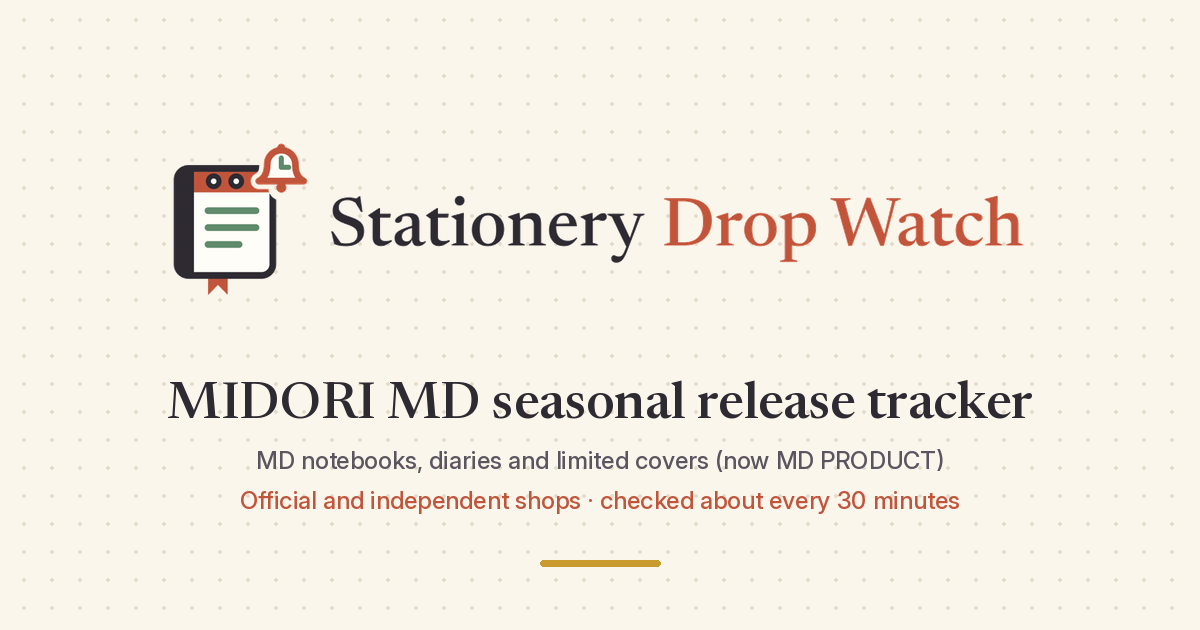
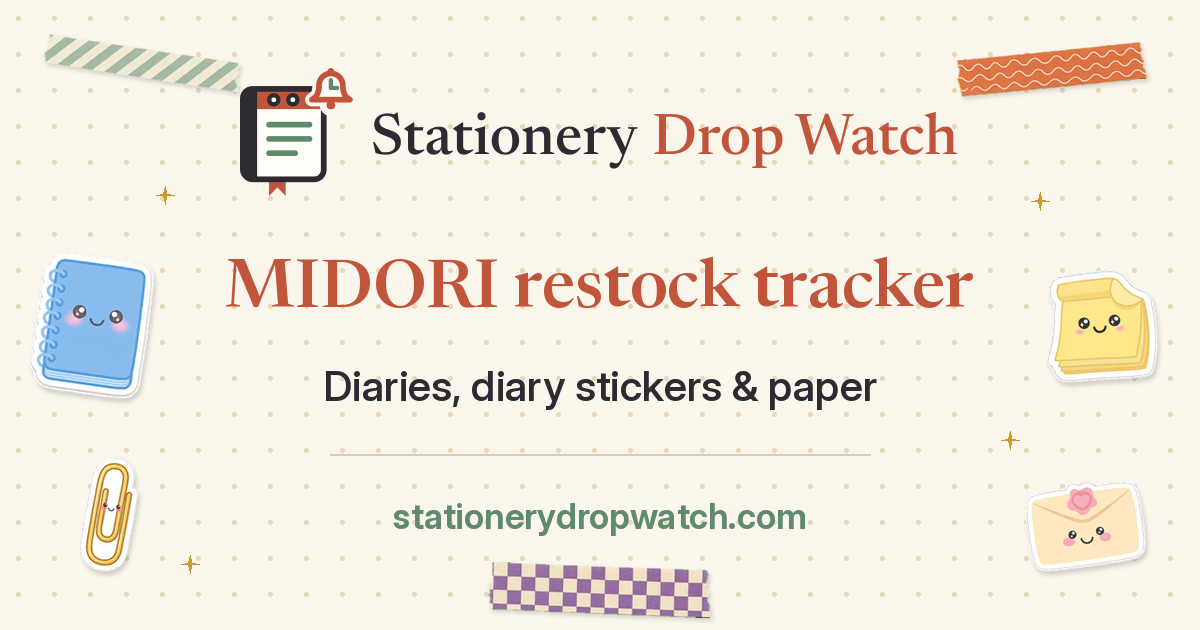
Use the approved MIDORI card and keep time-zone labels accurate
The share image is the exact approved file, and the old card generator no longer redraws it. The restock note stays Eastern Time until every instant on the page is rewritten, and a timestamp with no zone is left unchanged.

diff --git a/site/assets/local-time.js b/site/assets/local-time.js
@@ -2,8 +2,14 @@
    time.time-instant elements into the visitor's zone. Editorial dates are not marked and stay put.
    A missing zone, a bad timestamp, or any thrown error leaves the Eastern Time text. */
 (function (root) {
+  // A timestamp with no Z or numeric offset is not a known instant. Date() would
+  // read it as the visitor's zone and silently move it. Leave the Eastern Time text.
+  function hasExplicitZone(iso) {
+    return /(?:Z|[+-]\d{2}:\d{2})$/i.test(iso);
+  }
+
   function formatInstant(iso, timeZone, locale, now) {
-    if (typeof iso !== "string" || iso.indexOf("T") < 0) return null;
+    if (typeof iso !== "string" || iso.indexOf("T") < 0 || !hasExplicitZone(iso)) return null;
     var date = new Date(iso);
     if (isNaN(date.getTime())) return null;
     if (!timeZone) return null;
@@ -49,15 +55,27 @@
     return n;
   }
 
+  function zoneNote(converted, total) {
+    if (!total || !converted) return null;
+    if (converted === total) return "Times are labeled in your time zone.";
+    return "Each time names its zone. Eastern Time was not switched.";
+  }
+
   function showLocalTimes(doc) {
     try {
+      var page = doc || root.document;
       var zone = Intl.DateTimeFormat().resolvedOptions().timeZone;
-      if (!zone) return;
-      applyLocalTimes(doc || root.document, zone, (root.navigator && root.navigator.language) || "en-US");
+      if (!zone || !page || !page.querySelectorAll) return;
+      var nodes = page.querySelectorAll("time.time-instant[datetime]");
+      var converted = applyLocalTimes(page, zone, (root.navigator && root.navigator.language) || "en-US");
+      var note = zoneNote(converted, nodes.length);
+      if (!note) return;
+      var labels = page.querySelectorAll(".time-zone-note");
+      for (var i = 0; i < labels.length; i++) labels[i].textContent = note;
     } catch (e) {}
   }
 
-  var api = { formatInstant: formatInstant, applyLocalTimes: applyLocalTimes, showLocalTimes: showLocalTimes };
+  var api = { formatInstant: formatInstant, applyLocalTimes: applyLocalTimes, showLocalTimes: showLocalTimes, zoneNote: zoneNote, hasExplicitZone: hasExplicitZone };
   if (typeof module !== "undefined" && module.exports) module.exports = api;
   root.DropWatchTime = api;
 })(typeof globalThis !== "undefined" ? globalThis : this);

diff --git a/tests/local-time.test.js b/tests/local-time.test.js
@@ -28,9 +28,15 @@ assert.equal(at("2026-11-08T04:30:00Z", "Asia/Tokyo"), "Nov 8, 1:30 PM GMT+9");
 assert.equal(at("2026-01-01T04:30:00Z", "America/New_York"), "Dec 31, 2025, 11:30 PM EST");
 assert.equal(at("2026-01-01T04:30:00Z", "Asia/Tokyo"), "Jan 1, 1:30 PM GMT+9");
 
-for (const bad of ["", "2026-11-08", "not-a-time", "2026-13-40T00:00:00Z", null, undefined]) {
+for (const bad of ["", "2026-11-08", "not-a-time", "2026-13-40T00:00:00Z", null, undefined,
+                   "2026-11-08T08:14:52", "2026-11-08T08:14:52.5", "2026-11-08T08:14:52+0000"]) {
   assert.equal(formatInstant(bad, "America/New_York", "en-US", NOW), null);
 }
+assert.equal(at("2026-11-08T08:14:52+00:00", "America/New_York"), "Nov 8, 3:14 AM EST");
+const { zoneNote } = require("../site/assets/local-time.js");
+assert.equal(zoneNote(0, 3), null);
+assert.equal(zoneNote(3, 3), "Times are labeled in your time zone.");
+assert.equal(zoneNote(1, 3), "Each time names its zone. Eastern Time was not switched.");
 assert.equal(formatInstant("2026-11-08T08:14:52Z", "", "en-US", NOW), null);
 assert.equal(formatInstant("2026-11-08T08:14:52Z", "Not/AZone", "en-US", NOW), null);
 
@@ -44,16 +50,18 @@ function el(attrs, text) {
 const editorial = el({}, "Aug 25, 2026");
 const instant = el({ class: "time-instant", datetime: "2026-11-08T08:14:52Z" }, "Nov 8, 3:14 AM ET");
 const broken = el({ class: "time-instant", datetime: "nope" }, "Nov 8, 3:14 AM ET");
+const unzoned = el({ class: "time-instant", datetime: "2026-11-08T08:14:52" }, "Nov 8, 3:14 AM ET");
 const root = {
   querySelectorAll(sel) {
     assert.equal(sel, "time.time-instant[datetime]");
-    return [instant, broken];
+    return [instant, broken, unzoned];
   }
 };
 assert.equal(applyLocalTimes(root, "Asia/Tokyo", "en-US", NOW), 1);
 assert.equal(instant.textContent, "Nov 8, 5:14 PM GMT+9");
 assert.equal(instant.getAttribute("datetime"), "2026-11-08T08:14:52Z");
 assert.equal(broken.textContent, "Nov 8, 3:14 AM ET");
+assert.equal(unzoned.textContent, "Nov 8, 3:14 AM ET");
 assert.equal(editorial.textContent, "Aug 25, 2026");
 assert.equal(applyLocalTimes(root, "", "en-US", NOW), 0);
 

diff --git a/scripts/build_site.py b/scripts/build_site.py
@@ -241,6 +241,19 @@ OG_TRAVELERS = BASE + "assets/brand/og-travelers.png"
 # Matches the card: regular size colors, 2027 diary accessories, limited editions. No shop count on the artwork.
 OG_TRAVELERS_ALT = ("Stationery Drop Watch: Traveler's Notebook restock tracker. "
                     "Regular size colors, 2027 diary accessories and limited editions, at official and independent shops, checked " + CHECK_FREQ)
+OG_MIDORI = BASE + "assets/brand/og-midori.png"
+# The approved 8 Nov 2026 card. It says these words and does not mention the check cadence.
+OG_MIDORI_ALT = ("Stationery Drop Watch: MIDORI restock tracker. "
+                 "Diaries, diary stickers and paper. stationerydropwatch.com")
[1 lines of base64/hex data omitted]
+
+def _require_midori_card():
+    import hashlib
+    digest = hashlib.sha256((ROOT / "site/assets/brand/og-midori.png").read_bytes()).hexdigest()
+    if digest != MIDORI_OG_SHA:
+        raise SystemExit("og-midori.png is not the approved 8 Nov 2026 artwork")
+
+_require_midori_card()
 CONTENT_LASTMOD = "2026-11-08"  # last copy/structure change on the home and restock pages (sitemap lastmod floor)
 X_HANDLE = "@stationerydrop"
 LOCAL_LINK = re.compile(r'\b(href|src|srcset)="(?!https?:|mailto:|#|/|\.\./|data:)([^"]*)"')
@@ -583,7 +596,8 @@ def soon_block():
     </section>"""
 
 # Recent restocks are a history of flips. The status pill is the latest check, not the flip.
-RESTOCK_NOW_NOTE = ("The time is when it came back. It is Eastern Time here, and your time zone when the browser can show it. "
+RESTOCK_NOW_NOTE = ("The time is when it came back. "
+                    '<span class="time-zone-note">Times are labeled Eastern Time.</span> '
                     "The status is the latest check.")
 
 def availability_now(url):
@@ -982,8 +996,8 @@ GROUPS = [
                "The plain MD notebooks stay in the catalog all year, so we don't track them here.",
          title=f"MIDORI MD seasonal release restock tracker",
          desc="Are the MIDORI MD Notebook Diary 2027, the 1 Day 1 Page diary and the 2027 diary stickers in stock? Live status at {shops} official and independent shops, checked " + CHECK_FREQ + ".",
-         og_image=BASE + "assets/brand/og-midori.png",
-         og_alt="Stationery Drop Watch: MIDORI MD seasonal release tracker, checked " + CHECK_FREQ,
+         og_image=OG_MIDORI,
+         og_alt=OG_MIDORI_ALT,
          intro="MIDORI's MD line is sold as MD PRODUCT in 2026. The dated 2027 diaries, diary stickers and online store limited editions come once a year, in set quantities. "
                "We check the official MD PRODUCT USA store and independent shops, size by size. "
                "This covers MIDORI MD seasonal releases only; Hobonichi and our other sections have their own pages."),

diff --git a/tests/test_local_time.py b/tests/test_local_time.py
@@ -48,6 +48,34 @@ class TimeTagTests(unittest.TestCase):
         self.assertNotIn("time-instant", schema)
 
 
+class MidoriCardTests(unittest.TestCase):
+    def test_approved_bytes_and_alt_describe_the_artwork(self):
+        import hashlib
+        raw = (ROOT / "site/assets/brand/og-midori.png").read_bytes()
+        self.assertEqual(len(raw), 174111)
+        self.assertEqual(hashlib.sha256(raw).hexdigest(), site.MIDORI_OG_SHA)
+        self.assertNotIn("30 minutes", site.OG_MIDORI_ALT)
+        self.assertIn("Diaries, diary stickers and paper", site.OG_MIDORI_ALT)
+        self.assertIn("stationerydropwatch.com", site.OG_MIDORI_ALT)
+        group = next(g for g in site.GROUPS if g.get("section") == "midori")
+        _fname, doc = site.build_group(group, {})
+        self.assertIn(site.OG_MIDORI_ALT, html.unescape(doc))
+        self.assertIn('og:image:width" content="1200"', doc)
+        self.assertIn('og:image:height" content="630"', doc)
+        design = next(d for d in site.DESIGNS if d["parent"] == group["slug"])
+        _df, ddoc = site.build_design(design, {})
+        self.assertIn(site.OG_MIDORI_ALT, html.unescape(ddoc))
+        script = (ROOT / "scripts/brand/make_og.py").read_text()
+        self.assertNotIn('card("og-midori.png"', script)
+        self.assertIn("left og-midori.png unchanged", script)
+
+    def test_restock_note_does_not_claim_the_visible_time_is_eastern_after_a_switch(self):
+        doc = site.build_index()
+        self.assertIn("Times are labeled Eastern Time.", doc)
+        self.assertNotIn("It is Eastern Time here", doc)
+        self.assertIn('class="time-zone-note"', doc)
+
+
 class LocalTimeScriptTests(unittest.TestCase):
     def test_node_zones_dst_boundaries_and_bad_timestamps(self):
         script = ROOT / "tests" / "local-time.test.js"

diff --git a/scripts/brand/make_og.py b/scripts/brand/make_og.py
@@ -1,7 +1,10 @@
 """Social share cards (1200x630) for Open Graph / Twitter:
-site/assets/brand/og-image.png (Hobonichi side, home), og-dotgrid.png (dot grid journals),
-og-travelers.png (Traveler's Company notebooks and limited editions) and og-midori.png (MIDORI MD seasonal releases).
-No shop counts on the cards (they change with the data); the check frequency matches the site's wording.
+site/assets/brand/og-image.png (Hobonichi side, home), og-dotgrid.png (dot grid journals)
+and og-travelers.png (Traveler's Company notebooks and limited editions).
+No shop counts on these cards (they change with the data); the check frequency matches the site's wording.
+og-midori.png is not drawn here. It is the owner-approved 8 Nov 2026 artwork
+(sha256 1aa303925736d8469c7aae3c8e84c745e057451f82e2d95765deed23862cccde).
+Replace it by copying approved bytes, not by running this script.
 Run: python3 scripts/brand/make_og.py (needs Pillow; uses logo-1600.png)."""
 import os
 from PIL import Image, ImageDraw, ImageFont
@@ -56,6 +59,4 @@ card("og-dotgrid.png", [("Dot grid journal restock tracker", f1, INK, 66),
 card("og-travelers.png", [("Traveler's Notebook restock tracker", f1, INK, 66),
                           ("Regular size colors · 2027 diary accessories · limited editions", f3, INK2, 40),
                           ("Official and independent shops · " + FREQ, f3, TERRA, 0)])
-card("og-midori.png", [("MIDORI MD seasonal release tracker", f1, INK, 66),
-                       ("MD notebooks, diaries and limited covers (now MD PRODUCT)", f3, INK2, 40),
-                       ("Official and independent shops · " + FREQ, f3, TERRA, 0)])
+print("left og-midori.png unchanged")

diff --git a/README.md b/README.md
@@ -24,7 +24,7 @@ Pens, inks and other paper are not tracked.
 ## SEO
 
 - `build_site.py` also writes one restock page per product group (`GROUPS`): `site/<slug>/index.html`, e.g. `hobonichi-weeks-2027/`. Statuses are exactly what `data/stock.json` says.
-- Every page gets a canonical URL, Open Graph/Twitter tags with a share image and alt text (`assets/brand/og-image.png` for the Hobonichi side and as the default image, `assets/brand/og-dotgrid.png` for the dot grid page, `og-travelers.png` and `og-midori.png` for the newer sections; all made by `scripts/brand/make_og.py`) and JSON-LD (WebSite + FAQPage on home, BreadcrumbList + ItemList of tracked listings on product pages). No Product markup: we have no prices or ratings to put in it. The default card (`og-image.png`) does not print a shop count, and its alt text stays count-free because that file is shared by pages with different shop totals. Hobonichi-only totals in page copy come from `N_SEC["hobonichi"]`. The site-wide total (`N_STORES`) is the number of distinct `store_id` values in `data/stock.json`, not the sum of the section counts. The home eyebrow counts restock trackers only (`NAV_TRACKERS`); the 2027 calendar, guides, and shop stay in the rest of the nav.
+- Every page gets a canonical URL, Open Graph/Twitter tags with a share image and alt text (`assets/brand/og-image.png` for the Hobonichi side and as the default image, `assets/brand/og-dotgrid.png` for the dot grid page, and `og-travelers.png` for Traveler's Company, made by `scripts/brand/make_og.py`; `og-midori.png` is the approved 8 Nov 2026 artwork and that script does not redraw it) and JSON-LD (WebSite + FAQPage on home, BreadcrumbList + ItemList of tracked listings on product pages). No Product markup: we have no prices or ratings to put in it. The default card (`og-image.png`) does not print a shop count, and its alt text stays count-free because that file is shared by pages with different shop totals. Hobonichi-only totals in page copy come from `N_SEC["hobonichi"]`. The site-wide total (`N_STORES`) is the number of distinct `store_id` values in `data/stock.json`, not the sum of the section counts. The home eyebrow counts restock trackers only (`NAV_TRACKERS`); the 2027 calendar, guides, and shop stay in the rest of the nav.
 - `site/sitemap.xml` (lastmod = last status change on that page, or `CONTENT_LASTMOD` if the copy changed more recently; redirects are left out) and `site/robots.txt` are regenerated on every build, so the scheduled workflow keeps them current.
 - The site is served at the root of the custom domain https://stationerydropwatch.com/, so `robots.txt` (which points at `/sitemap.xml`) is read by crawlers.
 

diff --git a/docs/visitor-local-times-2026-11-08.md b/docs/visitor-local-times-2026-11-08.md
@@ -24,4 +24,6 @@ Next step, if wanted later: ask the owner whether the live profile banner should
 
[1 lines of base64/hex data omitted]
 
-On 8 Nov 2026 at 3:30 AM EST the owner approved replacement artwork with this exact copy: "MIDORI restock tracker", "Diaries, diary stickers & paper", the existing Stationery Drop Watch logo, and `stationerydropwatch.com`, at 1200×630. That wording matches the live tracker, which lists the 2027 MD diaries, the 2027 diary stickers, and the MD PAPER Block. It does not match a claim of limited covers. The clean master was not attached to this run. The review preview is not a substitute, because it carries a review footer. `og-midori.png` and its alt are unchanged until that clean file is here. The X header file was not changed.
[1 lines of base64/hex data omitted]
+
+The restock note no longer says the time on the screen is Eastern Time. Without JavaScript it says "Times are labeled Eastern Time." After every instant on the page is rewritten, that sentence becomes "Times are labeled in your time zone." A timestamp that contains `T` but no `Z` or numeric offset is left as Eastern Time, because JavaScript would otherwise treat it as the visitor's zone.
